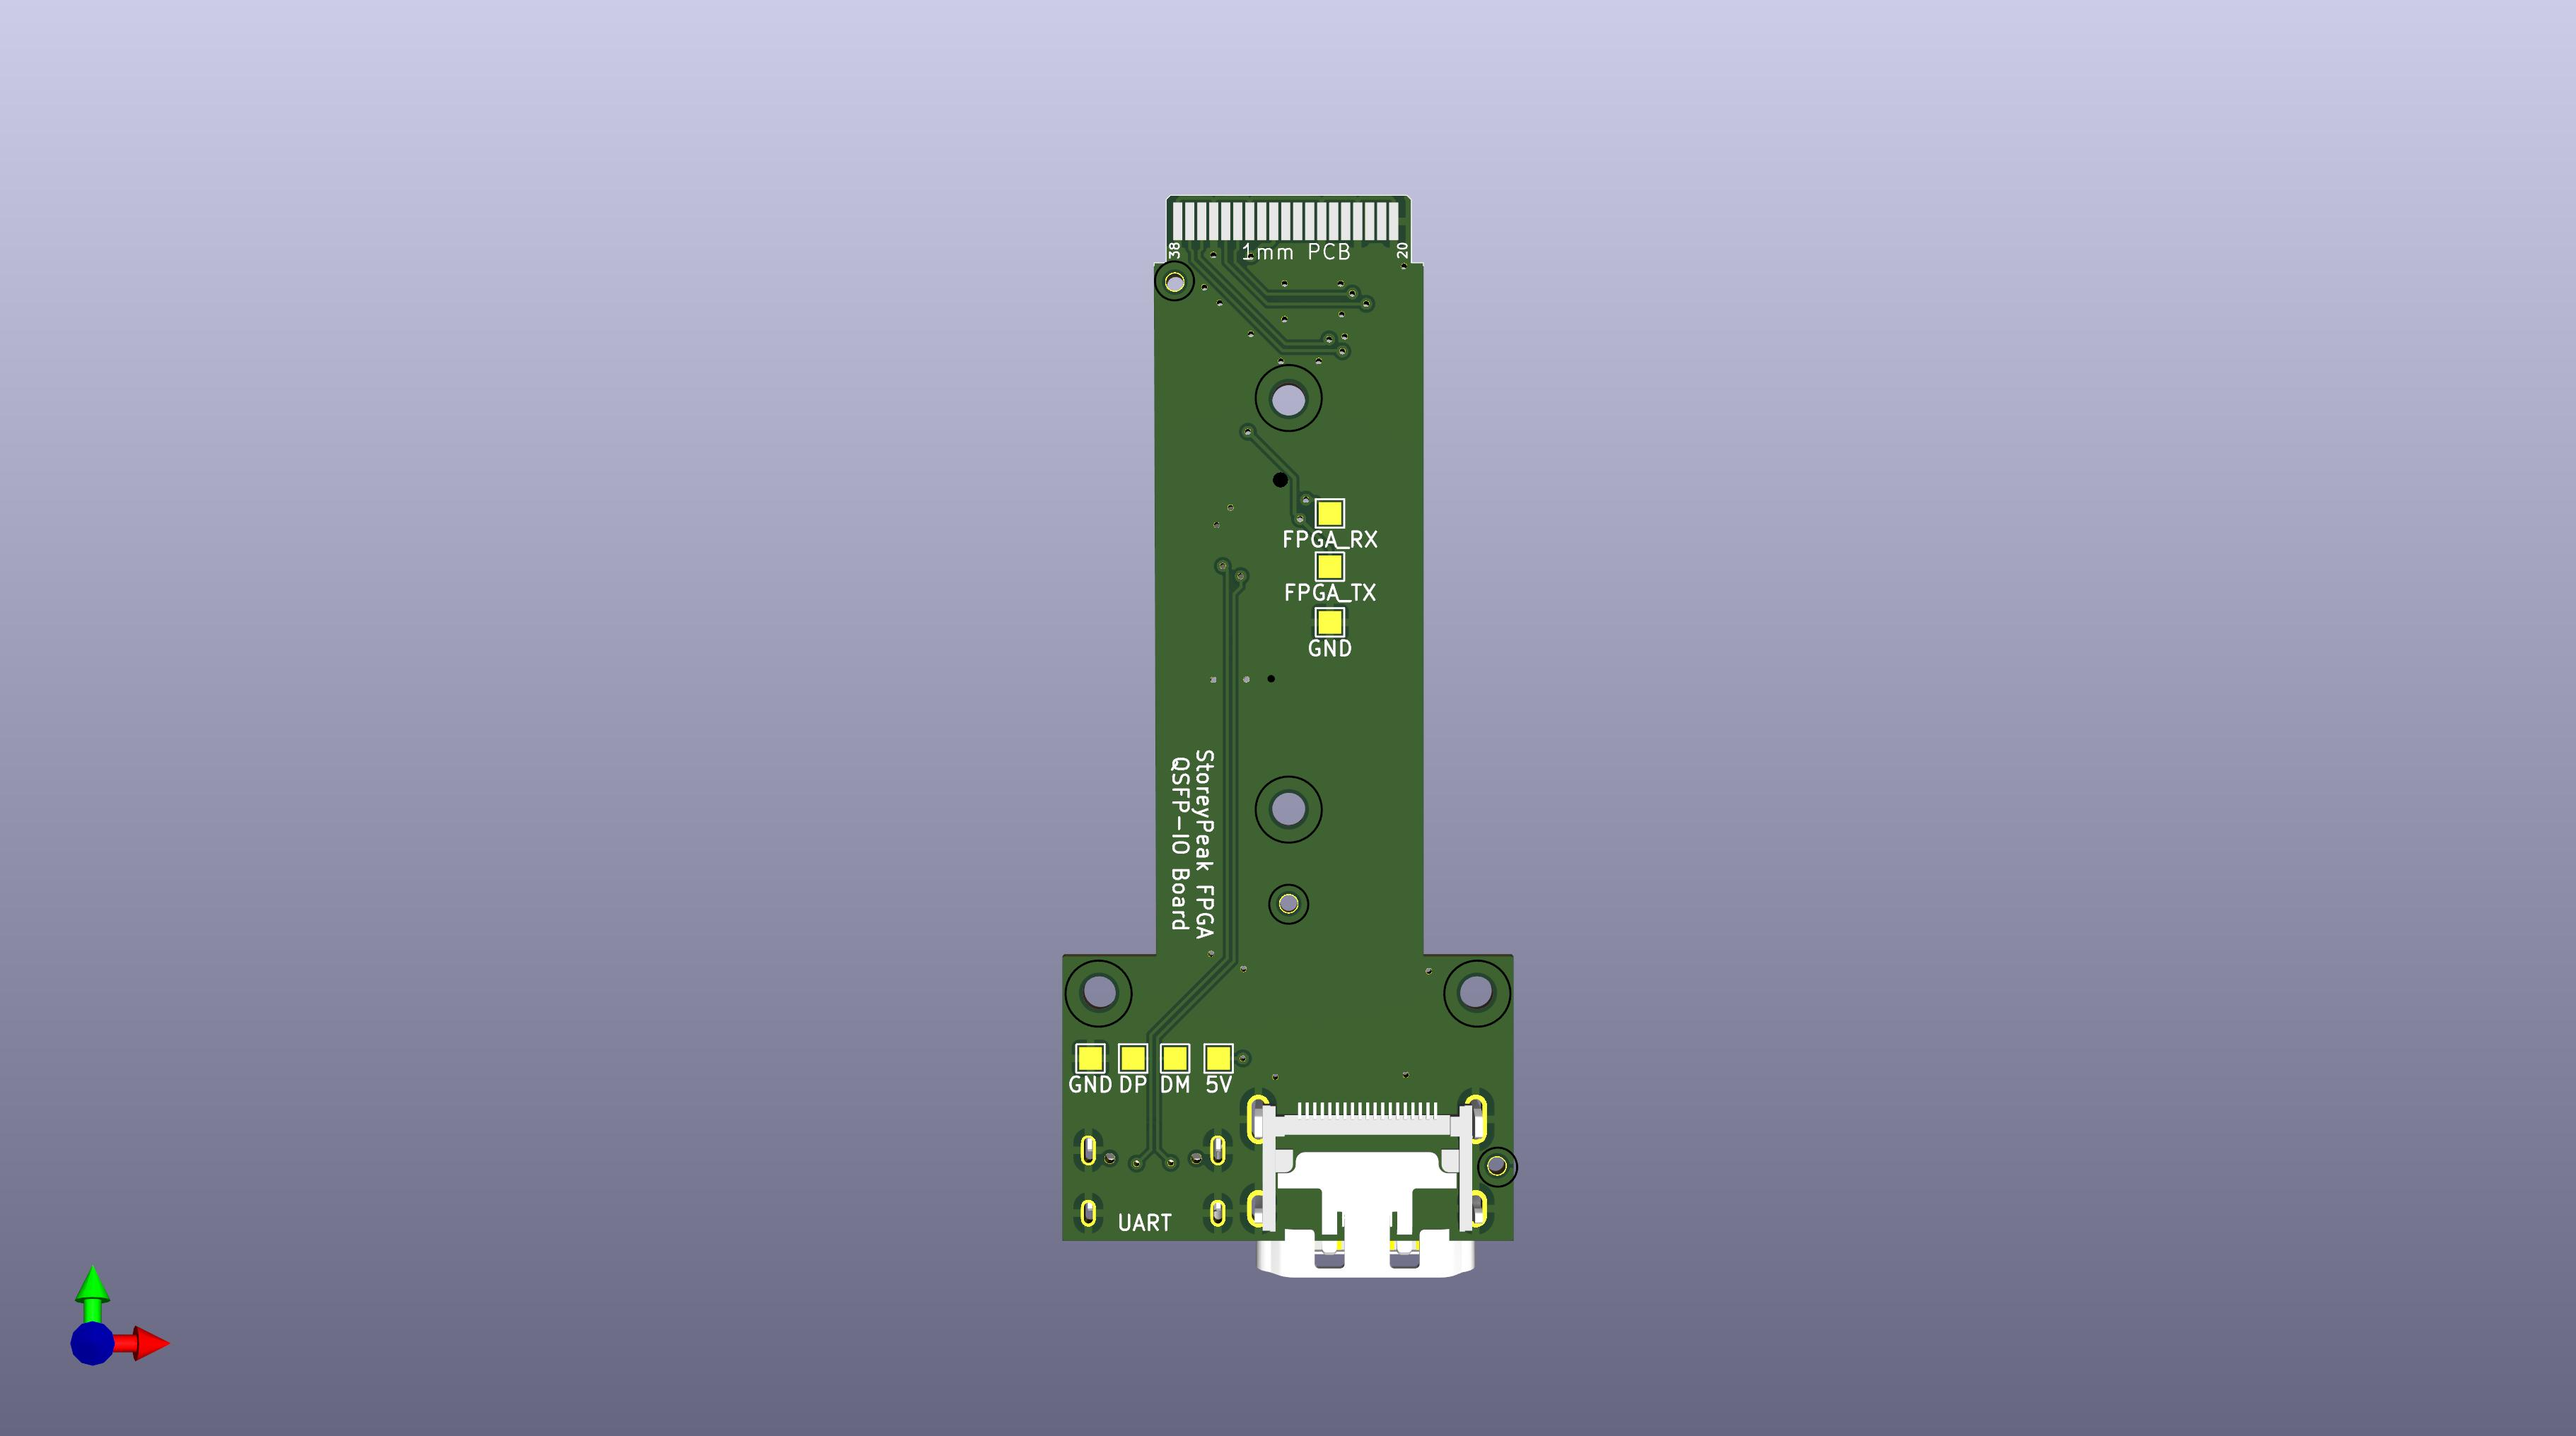
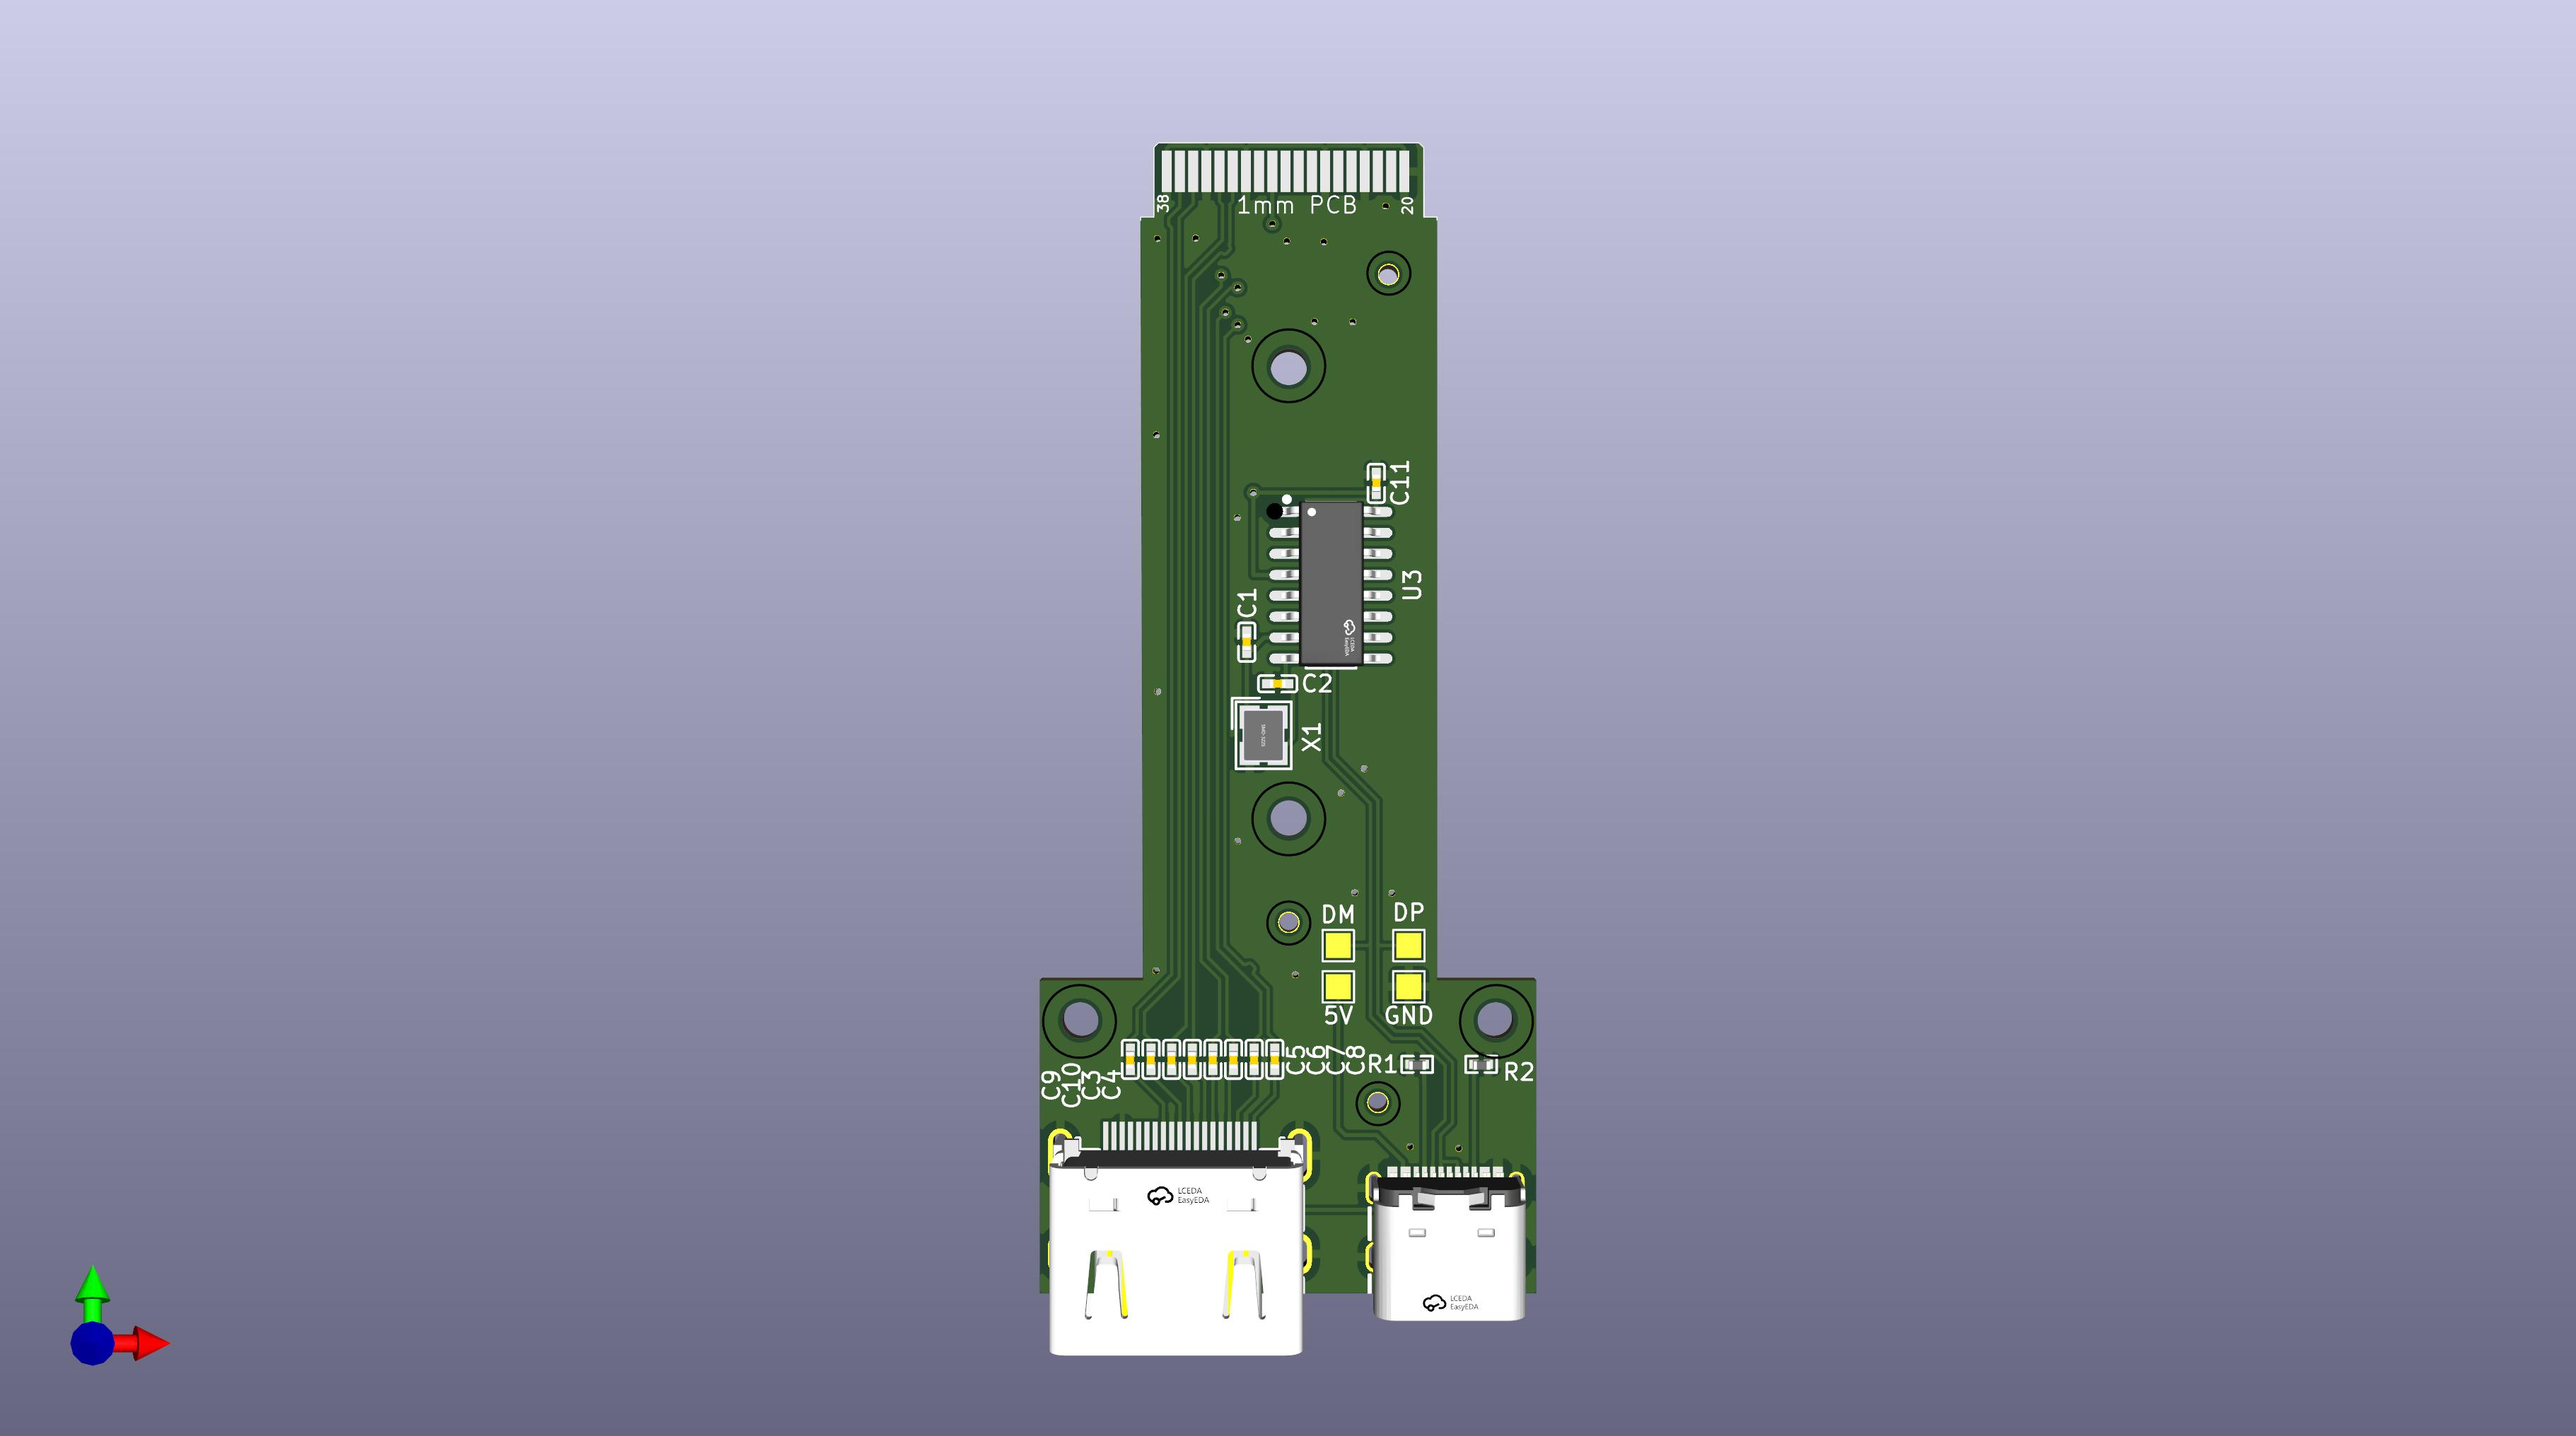
Update images, readme

Changed region(s): [[0.4032, 0.093, 0.6204, 0.9611]]

diff --git a/Readme.md b/Readme.md
@@ -31,8 +31,6 @@ This subproject focuses on the design and implementation of an adapter that conv
 
 This board has been manufactured in JLCPCB, and has LCSC part numbers allowing assembly by them as well. Be sure to use 1mm PCBs to fit into the QSFP slot.
 
-# THIS VERSION IS BROKEN! DO NOT BUILD IT!
-
 ![PCB_1](./StoreyPeak-QSFP-IO/QSFP_IO1.jpg)
 
 ![PCB_2](./StoreyPeak-QSFP-IO/QSFP_IO2.jpg)
